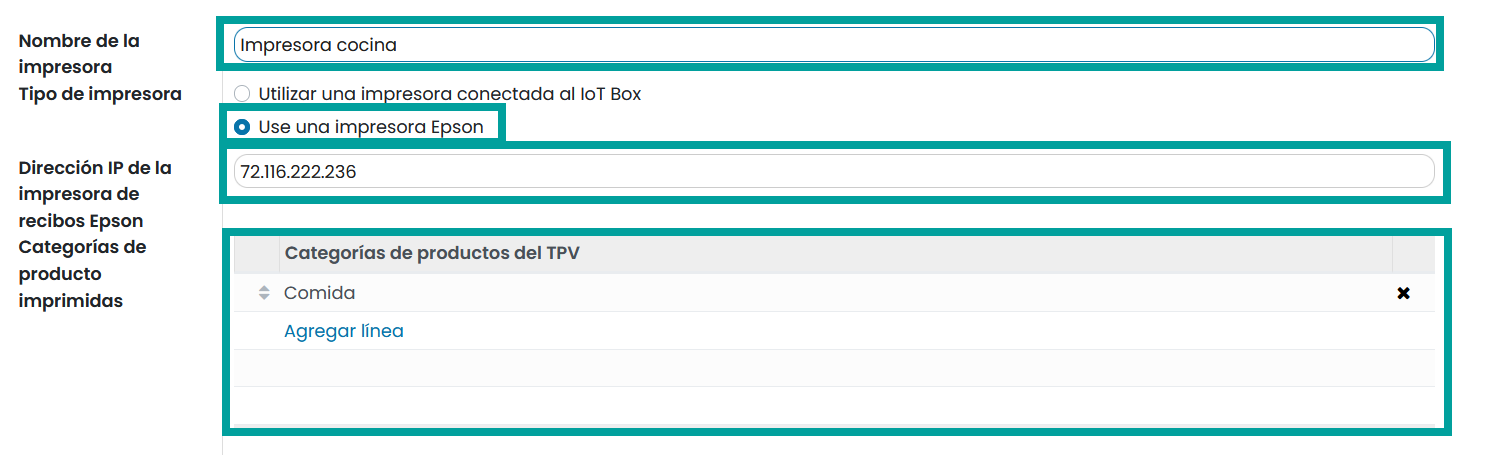
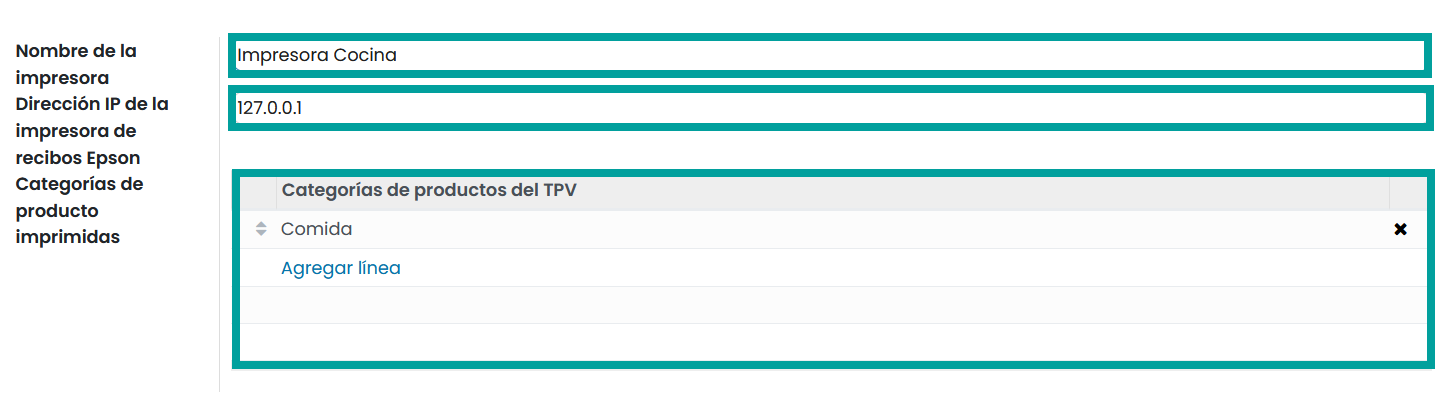
[ADD]-[Punto de venta]- Añadir documentación

Changed region(s): [[0.0, 0.0291, 0.9911, 0.9298]]

diff --git a/content/aplicaciones/ventas/punto_de_venta/gestion_basica.rst b/content/aplicaciones/ventas/punto_de_venta/gestion_basica.rst
@@ -39,7 +39,7 @@ Configución de acceso al TPV
 
 Es posible configurar la lista de posibles candidatos que pueden usar las sesiones del punto de venta.
 Para ello, navega a la pantalla :menuselection:`Punto de Venta --> Configuración --> Punto de Venta`, accede al detalle
-del TPV e informa la opción **Empleados Autorizados**. Posteriormente, selecciona todos las
+del TPV e informa la opción **Empleados Autorizados**. Posteriormente, selecciona todos los
 empleados a los que quieras otorgar acceso y pulsa el botón **Guardar**.
 
 .. image:: gestion_basica/conf_empleados.png
@@ -55,13 +55,13 @@ Añade sobre el campo **Código PIN**, el PIN deseado.
    :alt: Informa el PIN deseado
 
 En el caso de querer incorporar una credencial que pueda ser escaneada por el empleado en sustitución de la introducción
-del codigo PIN, informa el campo **ID de credencial** y haz clic sobre el botón **Generar**.
+del código PIN, informa el campo **ID de credencial** y haz clic sobre el botón **Generar**.
 
 .. image:: gestion_basica/rrhh2.png
    :align: center
    :alt: ID de credencial
 
-Para imprimir la insignia , haz clic sobre el botón **Imprimir Insignia**.
+Para imprimir la insignia, haz clic sobre el botón **Imprimir Insignia**.
 
 .. image:: gestion_basica/rrhh3.png
    :align: center
@@ -93,7 +93,7 @@ Sobre la pantalla aparecerá un indicador de carga de la aplicación TPV.
 Al finalizar la carga (suele tardar unos segundos), aparecerá la pantalla inicial del TPV .
 
 En el caso de que dispongas de más de un empleado operando con el TPV, se mostrará una pantalla inicial de inicio de sesión.
-Desde esta pantalla es posible escanear la credencial del empleado que va a inciar sesión o seleccionarlo manualmente mediante
+Desde esta pantalla es posible escanear la credencial del empleado que va a iniciar sesión o seleccionarlo manualmente mediante
 el botón **Seleccionar cajero**.
 
 .. image:: gestion_basica/pos_sesion.png
@@ -159,7 +159,7 @@ Para cerrar una sesión de TPV, debes pulsar el botón **Cerrar**.
 
 
 A continuación, se mostrará la pantalla de control de cierre, desde donde es posible indicar el importe disponible
-al contado en la caja registradora (control de caja), asi como incorporar notas de los sucesos de la sesión.
+al contado en la caja registradora (control de caja), así como incorporar notas de los sucesos de la sesión.
 
 Además, es posible realizar las siguientes acciones:
 
@@ -171,7 +171,7 @@ Además, es posible realizar las siguientes acciones:
    :align: center
    :alt: Pantalla de control de caja al cierre del TPV
 
-Al salir de la sesión, daeris navegará a la pantalla :menuselection:`Punto de Venta --> Tablero`, donde podrás ver
+Al salir de la sesión, Daeris navegará a la pantalla :menuselection:`Punto de Venta --> Tablero`, donde podrás ver
 la *Última fecha de cierre* y el *Último saldo de efectivo de cierre*.
 
 .. image:: gestion_basica/pos_post_cierre.png
@@ -214,7 +214,7 @@ En el caso de que quieras ampliar el número de unidades, puedes:
    :alt: Hacer clic sobre el teclado numérico, indicando el número de unidades , necesario que esté seleccionada la opción Cantidad del teclado numérico.
 
 Una vez añadido un producto, puedes eliminar el término buscado, mediante el botón derecho del buscador. Posteriormente
-puedes continuar añadiendo productos al pedido,seleccionando otras categorías y haciendo clic sobre los productos a incorporar.
+puedes continuar añadiendo productos al pedido, seleccionando otras categorías y haciendo clic sobre los productos a incorporar.
 
 .. image:: gestion_basica/resultado_articulo.png
    :align: center
@@ -336,7 +336,7 @@ así como poder ofrecer servicios especializados mejorando la fidelidad (descuen
 envío de catálogos, etc.).
 
 Tener a tus clientes registrados te permitirá, además, agilizar los procesos de facturación, así como ofrecerles
-información detallada de su historial. Para agilizar el registro de clientes, daeris permite al empleado crear
+información detallada de su historial. Para agilizar el registro de clientes, Daeris permite al empleado crear
 nuevos clientes desde el TPV.
 
 Para crear un nuevo cliente desde una sesión de TPV, pulsa el botón Cliente del teclado numérico:
@@ -353,7 +353,7 @@ datos de un nuevo cliente.
    :align: center
    :alt: Añadir cliente
 
-Al hacer clic sobre el botón ** +Crear**, se abre un nuevo formulario donde introducir los datos del cliente. El empleado
+Al hacer clic sobre el botón **+Crear**, se abre un nuevo formulario donde introducir los datos del cliente. El empleado
 puede registrar los datos que le ofrece el cliente.
 
 Campos como el NIF, pueden disponer de validaciones para evitar la introducción de datos erróneos. Una vez
@@ -524,7 +524,7 @@ Para limitar la carga de productos al iniciar la sesión del TPV, navega a la pa
 :menuselection:`Punto de Venta --> Configuración --> Punto de Venta`, accede al detalle
 del TPV y sobre el apartado **Inventario**, informa la opción **Carga de productos limitada**.
 
-Al activar esta opción, se cargarán **los 20.000 productos mas comunes** al iniciar la sesión.
+Al activar esta opción, se cargarán **los 20.000 productos más comunes** al iniciar la sesión.
 
 En el caso de que desees que se carguen el resto de productos una vez iniciada la sesión, selecciona la opción
 **Cargar todos los productos restantes en segundo plano**.

diff --git a/content/aplicaciones/ventas/punto_de_venta/restaurante.rst b/content/aplicaciones/ventas/punto_de_venta/restaurante.rst
@@ -246,8 +246,10 @@ puedes crear una nueva haciendo clic sobre el enlace **Impresoras**.
    :alt: Impresoras
 
 El sistema navega a la pantalla de impresoras de pedido, donde puedes crear una nueva impresora mediante el botón
-**Crear**. Al crear una nueva impresora debes informar un nombre , las categorías de productos que puedan llegar
-a imprimirse sobre un pedido asi com el tipo el cual **siempre** se ha de seleccionar la opción **Use una impresora Epson**.
+**Crear**.
+
+Al crear una nueva impresora debes informar un **nombre** , la **dirección IP** de la impresora Epson y
+las **categorías** de productos que puedan llegar a imprimirse sobre un pedido.
 
 .. note::
    Por ejemplo, si en un bar tienes la categoría comida y la categoría bebida, y solo quieres que se impriman los productos de la categoría comida, añade únicamente la categoría comida a la impresora. Todos los productos de la categoría bebida no se imprimirán sobre esa impresora.
@@ -292,11 +294,39 @@ Las líneas de pedido verdes, así como el sombreado verde del propio botón, de
 
 Actualizar pedidos de cocina
 -------------------------------
-Laa
 
-Registrar un pedido adicional
-------------------------------
-La
+Una vez hayas gestionado un pedido y emitido la correspondiente nota a cocina, puede darse el caso de que tengas que
+corregir, ampliar o reducir el pedido e informar a cocina.
+
+Para ello, inicia sesión en el TPV desde la pantalla :menuselection:`Punto de Venta --> Tablero`, y desde el pedido a actualizar,
+realiza los cambios correspondientes sobre las líneas de pedido afectadas.
+
+Cada cambio se verá reflejado en color verde. Además, el botón **Pedido** volverá a disponer del sombreado verde.
+
+.. image:: restaurante/imprimirmas01.png
+   :align: center
+   :alt: Líneas del pedido
+
+Al pulsar el botón **Pedido**, se solicitará confirmación para **imprimir** mediante una nueva ventana del navegador.
+
+.. image:: restaurante/imprimirmas02.png
+   :align: center
+   :alt: Imprimir pedido
+
+Sobre la impresión, puedes encontrar el número de pedido, la ubicación, la hora, la instrucción y el contenido de productos de la categoría.
+
+.. image:: restaurante/imprimirmas03.png
+   :align: center
+   :alt: Pedido impreso
+
+Las líneas de pedido verdes, así como el sombreado verde del propio botón, desaparecerán una vez impreso el pedido.
+
+.. image:: restaurante/imprimirmas04.png
+   :align: center
+   :alt: Líneas del pedido
+
+.. note::
+   Para permitir emitir impresiones de pedidos, debes tener habilitada la opción **Pedido en impresora** en la configuración de la TPV, y haber informado al menos una impresora.
 
 Transferir los clientes de una mesa a otra
 -------------------------------------------
@@ -381,7 +411,34 @@ dividiendo la cuenta mediante el botón **Dividir**.
 
 Imprimir una cuenta antes de realizar el pago
 -------------------------------------------------
-BEBE
+
+Para permitir ofrecer a un cliente su cuenta impresa sin tener que mantenerse a la espera de la gestión del pago,
+navega a la pantalla :menuselection:`Punto de Venta --> Configuración --> Punto de Venta`, accede al detalle
+del TPV y sobre el apartado **Facturas y recibos** marca la opción **Impresión de la cuenta**.
+
+.. image:: restaurante/imprimir_recibo01.png
+   :align: center
+   :alt: Imprimir la cuenta
+
+.. note::
+   Una cuenta impresa o recibo no puede considerarse una factura, ni una factura simplificada ya que para ello debe disponer de un código de secuencia único. Dicho código de secuencia se facilita tras haber realizado el correspondiente pago.
+
+Al iniciar una nueva sesión de TPV desde la pantalla :menuselection:`Punto de Venta --> Tablero`, tras iniciar
+un pedido, se habilita un nuevo botón **Recibo** precedido del icono de una impresora.
+
+.. image:: restaurante/imprimir_recibo02.png
+   :align: center
+   :alt: Recibo
+
+Al pulsar el botón, el sistema navega a la pantalla de impresión de la cuenta.
+
+Al hacer clic sobre el botón Imprimir, se llevará a cabo la impresión.
+
+.. image:: restaurante/imprimir_recibo03.png
+   :align: center
+   :alt: Imprimir
+
+
 
 Gestionar las propinas antes de completar un pago
 --------------------------------------------------

diff --git a/content/aplicaciones/ventas/punto_de_venta/control_caja.rst b/content/aplicaciones/ventas/punto_de_venta/control_caja.rst
@@ -111,7 +111,7 @@ Entrada y retirada de efectivo
 Daeris permite la entrada y retirada de efectivo a los empleados **administradores** del TPV sin necesidad de
 tener que cerrar la sesión.
 
-Para realizar la entrada o retira de efectivo, haz clic sobre el botón ** Efectivo +/- ** disponible sobre la barra
+Para realizar la entrada o retira de efectivo, haz clic sobre el botón **Efectivo +/-** disponible sobre la barra
 superior.
 
 .. image:: control_caja/entrada_retirada1.png
@@ -178,23 +178,20 @@ El empleado responsable con permisos de administrador del TPV , deberá realizar
 dicha restricción.
 
 
-Establecer el volumen de monedas y billetes en la apertura del TPV
+Establecer los tipos de monedas y billetes que permite el TPV
 -------------------------------------------------------------------
 
 En primer lugar, navega a la pantalla :menuselection:`Punto de Venta --> Configuración --> Punto de Venta`, accede al
 detalle del TPV y sobre el apartado *Pagos* incorpora la opción **Efectivo** como método de pago.
 
-Al incorporar este método, es posible establecer la cantidad de monedas y billetes que debe disponer la caja tanto al iniciar
+Al incorporar este método, es posible establecer los tipos de monedas y billetes que pueden existir en caja tanto al iniciar
 como al finalizar la sesión.
-
-Configurar esta opción es tarea necesaria ya que todas las cajas deben disponer de monedas y billetes para poder
-devolver el cambio a los clientes.
 
 .. image:: control_caja/metodo.png
    :align: center
    :alt: Efectivo como método de pago
 
-Para gestionar las posibles monedas o billetes a incorporar sobre el TPV, navega a la pantalla :menuselection:`Punto de Venta --> Configuración --> Monedas / Billetes`.
+Para gestionar las posibles monedas o billetes que puedes disponer en la caja del TPV, navega a la pantalla :menuselection:`Punto de Venta --> Configuración --> Monedas / Billetes`.
 Esta acción te llevará a la pantalla de valores de moneda de los TPV, donde podrás crear nuevos registros mediante el
 botón **Crear** o actualizar los existentes.
 
@@ -209,6 +206,4 @@ aquellas que consideres oportunas sobre el apartado **Monedas / Billetes**.
    :align: center
    :alt: Monedas / Billetes sobre el TPV
 
-.. note::
-   Hay que ser cuidadoso al establecer los valores de apertura por defecto ya que en función del tipo de negocio, puede ser común que los clientes paguen con moneda pequeña, moneda de alto valor, etc. Si no dispones de suficiente cambio de moneda, el empleado deberá solicitar cambio, provocando lentitud en las colas de caja y el consiguiente malestar en los clientes.
 

diff --git a/content/aplicaciones/ventas/punto_de_venta/usabilidad.rst b/content/aplicaciones/ventas/punto_de_venta/usabilidad.rst
@@ -37,10 +37,16 @@ Dispositivos externos
 Lector de códigos de barras
 ----------------------------
 
-Para 
+En comercios y negocios relacionados con la distribución de productos es común el uso de un lector de código de
+barras para el TPV.
 
+Daeris permite integrar su funcionalidad con la mayoría de los lectores de códigos de barras, herramientas
+indispensables para agilizar las ventas a través de una simple escaneo de una etiqueta para su registro.
 
-Pantalla del cliente 
+.. seealso::
+   * :doc:`../../inventario_y_fabricacion/inventario/codigos_de_barras`
+
+Pantalla del cliente
 ---------------------
 
 Daeris, permite incorporar una segunda pantalla la cual muestra los artículos y el precio cuando se está efectuando la venta.
@@ -79,6 +85,30 @@ De este modo, sobre una pantalla, el empleado manejará el TPV y sobre la otra, 
    :alt: Pantalla del cliente
 
 Impresoras
--------------
+-----------
 
-Para
+En función del tipo de acción que se realice desde el TPV, puede ser necesario realizar impresiones mediante
+un tipo de impresora u otro.
+
+    - **Impresoras convencionales**: Destinadas a la impresión de facturas completas.
+    - **Impresoras térmicas (ePos)**: Destinadas a la impresión de recibos o facturas simplificadas para entregar al cliente. También es posible la impresión de detalles de pedidos para cocinas, barras de bar, etc.
+
+Impresoras convencionales
+~~~~~~~~~~~~~~~~~~~~~~~~~~
+Impresoras bla
+
+Impresoras de recibos
+~~~~~~~~~~~~~~~~~~~~~~~
+
+Impresoras bla
+
+Conexión segura (HTTPS)
+""""""""""""""""""""""""
+
+Impresoras bla
+
+Certificado autofirmado para impresoras ePOS
+""""""""""""""""""""""""""""""""""""""""""""""""
+
+Impresoras bla
+
